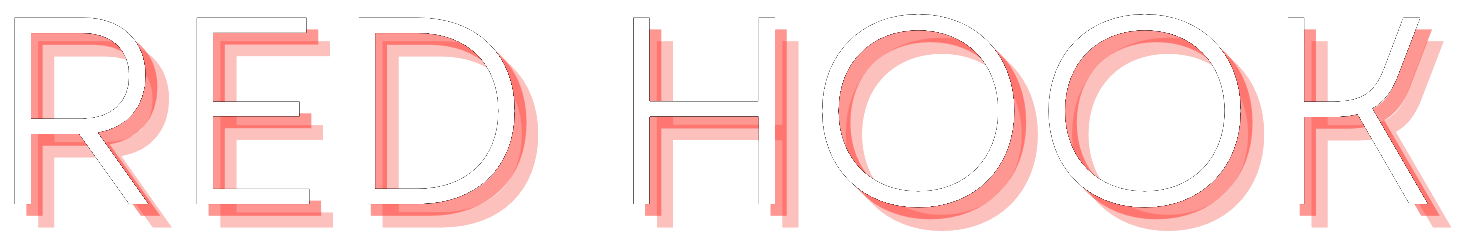
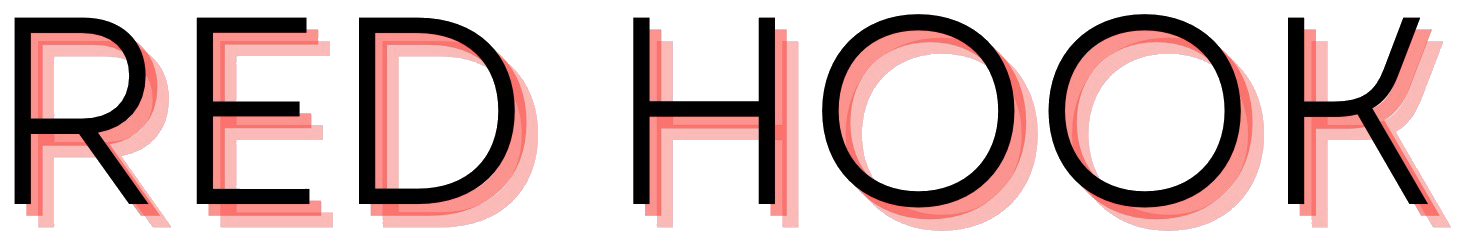
style chages

Changed region(s): [[0.4309, 0.056, 0.985, 0.84], [0.0, 0.056, 0.2155, 0.84], [0.2462, 0.056, 0.3694, 0.84]]

diff --git a/client/src/RedHook.js b/client/src/RedHook.js
@@ -28,7 +28,7 @@ function RedHook() {
         frameborder="0"
         allowfullscreen
       ></iframe>
-      <h4>
+      <h4 className="redhook_desc">
         A rockstar seeking a simpler life unexpectedly encounters his
         girlfriend’s ex boyfriend for the first time, and after it takes an
         emotional turn, realizes he has to choose between his vocation or love.

diff --git a/client/src/App.css b/client/src/App.css
@@ -170,6 +170,10 @@ a:hover {
   width: 75%;
   margin: auto;
 }
+
+.max_text > p {
+  font-size: 0.75em;
+}
 .icon-container {
   display: flex;
   align-items: flex-end;
@@ -230,6 +234,7 @@ a:hover {
 .redhook_title_img {
   width: 40%;
   margin-top: 1em;
+  margin-bottom: -4em;
 }
 .redhook > h2 {
   position: absolute;
